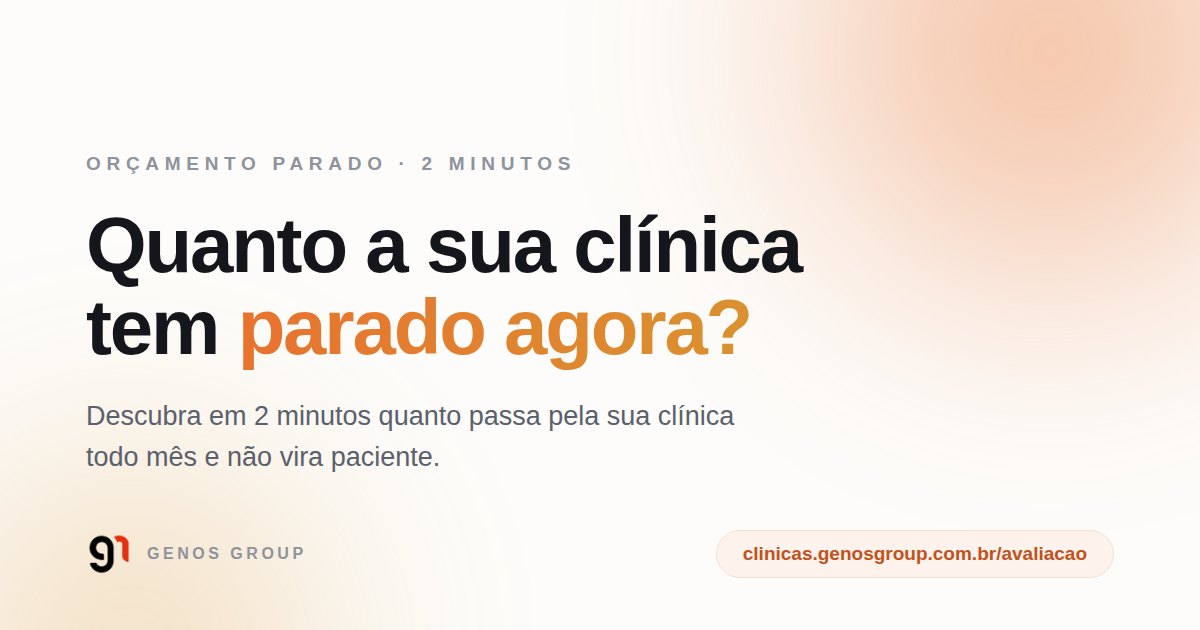
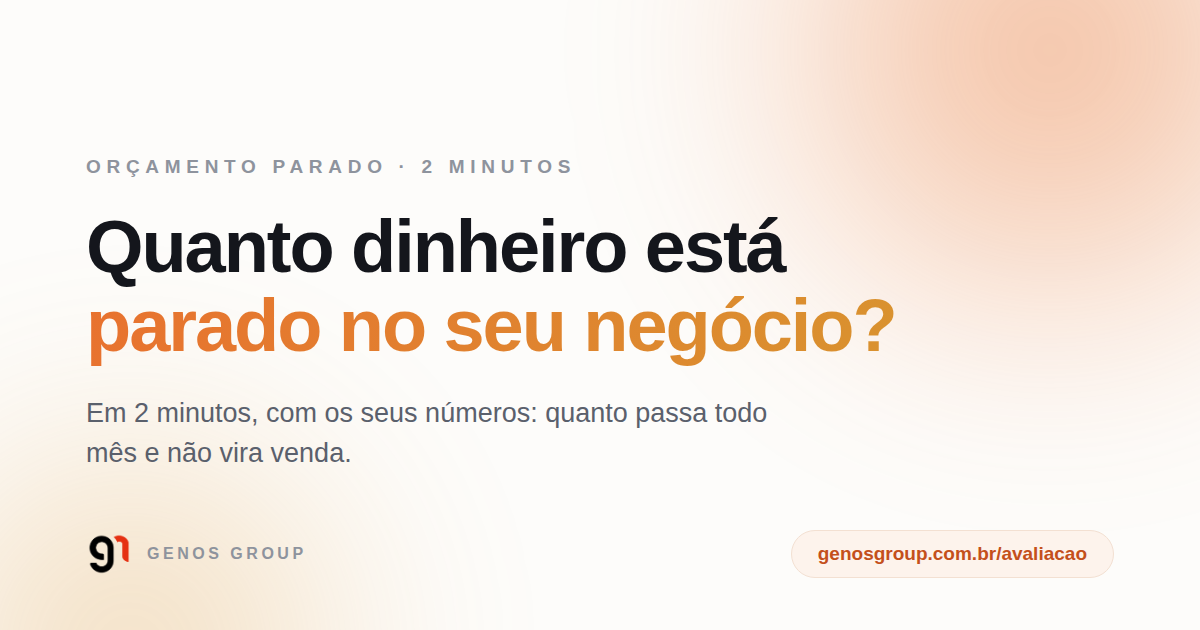
Aponta a página para genosgroup.com.br/avaliacao
O "clinicas." sai do endereço: a ferramenta agora atende clínica e
não-clínica, e o posicionamento de clínica continua no conteúdo e na
venda, não na URL. A rota nova já está no ar; a antiga fica de pé para não
quebrar link já divulgado, e a canônica aponta para a nova.

Três endereços eram fixos no HTML e precisavam acompanhar: canonical,
og:url e og:image. Fixos porque robô de link não roda JavaScript, então
não dá para montá-los em tempo de execução. A normalização de URL do
Analytics usa location.origin e se adaptou sozinha.

E vai junto uma coisa maior que o endereço. A prévia do link ainda dizia
"Quanto a sua clínica tem em orçamento parado?" e "11 perguntas... dono de
clínica". Essa prévia é o que a pessoa vê no WhatsApp e no direct ANTES de
abrir a página, ou seja, é a primeira tela de verdade: o filtro que a
bifurcação tirou de dentro continuava inteiro na porta, e quem não é
clínica desistia antes de clicar.

Título, descrição e texto alternativo agora falam de negócio. A imagem de
prévia foi refeita com a chamada nova e o endereço novo, montada com os
mesmos tokens de cor e tipografia da página.

Também corrige o "11 perguntas" da descrição, que já estava errado desde a
calculadora geral: agora são 11 ou 5, conforme o caminho.

Bateria dos dois braços e layout em 360, 393, 430 e 1280px seguem
passando.

Claude-Session: https://claude.ai/code/session_01J2LtHXg8q84o35o3Kv7JUW

diff --git a/public/index.html b/public/index.html
@@ -7,25 +7,25 @@
 <!-- Marca da Genos, embutida para a página seguir sendo um arquivo único.
      Fonte: j.png na raiz do repositório. Fundo transparente preservado. -->
[1 lines of base64/hex data omitted]
-<meta name="description" content="Descubra em 2 minutos quanto a sua clínica tem parado entre orçamento aberto, avaliação que não fecha e paciente que sumiu.">
-<meta property="og:title" content="Quanto a sua clínica tem em orçamento parado?">
-<meta property="og:description" content="11 perguntas. 2 minutos. O número que quase nenhum dono de clínica sabe responder.">
-<meta property="og:url" content="https://clinicas.genosgroup.com.br/avaliacao">
+<meta name="description" content="Descubra em 2 minutos quanto passa pelo seu negócio todo mês, em gente que conversou e não fechou, e ninguém retomou.">
+<meta property="og:title" content="Quanto dinheiro está parado no seu negócio?">
+<meta property="og:description" content="2 minutos, e o número aparece. Proposta que ninguém retomou, cliente que sumiu depois do valor, venda travada no meio.">
+<meta property="og:url" content="https://genosgroup.com.br/avaliacao">
 <!-- Card de prévia no WhatsApp, no direct e no anúncio. Precisa de URL absoluta:
      og:image não aceita caminho relativo nem data URI, então esta é a única
      imagem da página que mora num arquivo à parte, servida pelo mesmo Worker. -->
-<meta property="og:image" content="https://clinicas.genosgroup.com.br/og.png">
+<meta property="og:image" content="https://genosgroup.com.br/og.png">
 <meta property="og:image:width" content="1200">
 <meta property="og:image:height" content="630">
-<meta property="og:image:alt" content="Quanto a sua clínica tem parado agora? Diagnóstico de 2 minutos.">
-<meta name="twitter:image" content="https://clinicas.genosgroup.com.br/og.png">
+<meta property="og:image:alt" content="Quanto dinheiro está parado no seu negócio? Diagnóstico de 2 minutos.">
+<meta name="twitter:image" content="https://genosgroup.com.br/og.png">
 <meta property="og:type" content="website">
 <meta property="og:locale" content="pt_BR">
 <meta name="twitter:card" content="summary_large_image">
 <!-- O Worker roda com not_found_handling em single-page-application, então
      QUALQUER caminho devolve esta página. Sem a canônica, um link de anúncio
      truncado viraria uma URL indexável distinta, com o mesmo conteúdo. -->
-<link rel="canonical" href="https://clinicas.genosgroup.com.br/avaliacao">
+<link rel="canonical" href="https://genosgroup.com.br/avaliacao">
 <meta name="theme-color" content="#FDFCFA">
 <style>
 :root{

diff --git a/README.md b/README.md
@@ -4,12 +4,16 @@ Diagnóstico de 11 perguntas que faz a clínica descobrir sozinha onde está o d
 É a porta de entrada do funil AVALIAÇÃO e classifica o lead entre as duas saídas:
 Tratamento e Intervenção.
 
-**URL no ar:** `https://clinicas.genosgroup.com.br/avaliacao`
+**URL no ar:** `https://genosgroup.com.br/avaliacao`
 **Hospedagem:** Cloudflare Workers (assets estáticos), com deploy automático a partir deste repositório.
 
-> **A URL é `/avaliacao`.** O `docs/README-original.md` e a tarefa do ClickUp pedem
-> `/orcamento-parado`: é da versão antiga e não vale mais. Confirmado pelo Genos em
-> 09/09/2026. Quem for montar link de anúncio, bio ou prospecção usa `/avaliacao`.
+> **O endereço é `genosgroup.com.br/avaliacao`,** confirmado pelo Genos em 01/10/2026.
+> O `clinicas.` saiu porque a ferramenta agora atende clínica E não-clínica; o
+> posicionamento de clínica continua no conteúdo e na venda, não na URL.
+>
+> `clinicas.genosgroup.com.br/avaliacao` continua respondendo, para não quebrar link já
+> divulgado, mas a canônica aponta para o novo. O `docs/README-original.md` e a tarefa do
+> ClickUp pedem `/orcamento-parado`: é da versão antiga e não vale mais.
 
 ---
 
@@ -87,7 +91,8 @@ A rota fica no painel (**Worker › Settings › Domains & Routes**), não no
 Rota em uso:
 
 ```
-clinicas.genosgroup.com.br/avaliacao*
+genosgroup.com.br/avaliacao*          ← o endereço oficial
+clinicas.genosgroup.com.br/avaliacao*  ← mantida, para links já divulgados
 ```
 
 **O asterisco não é enfeite.** A rota casa contra a URL inteira, query string
